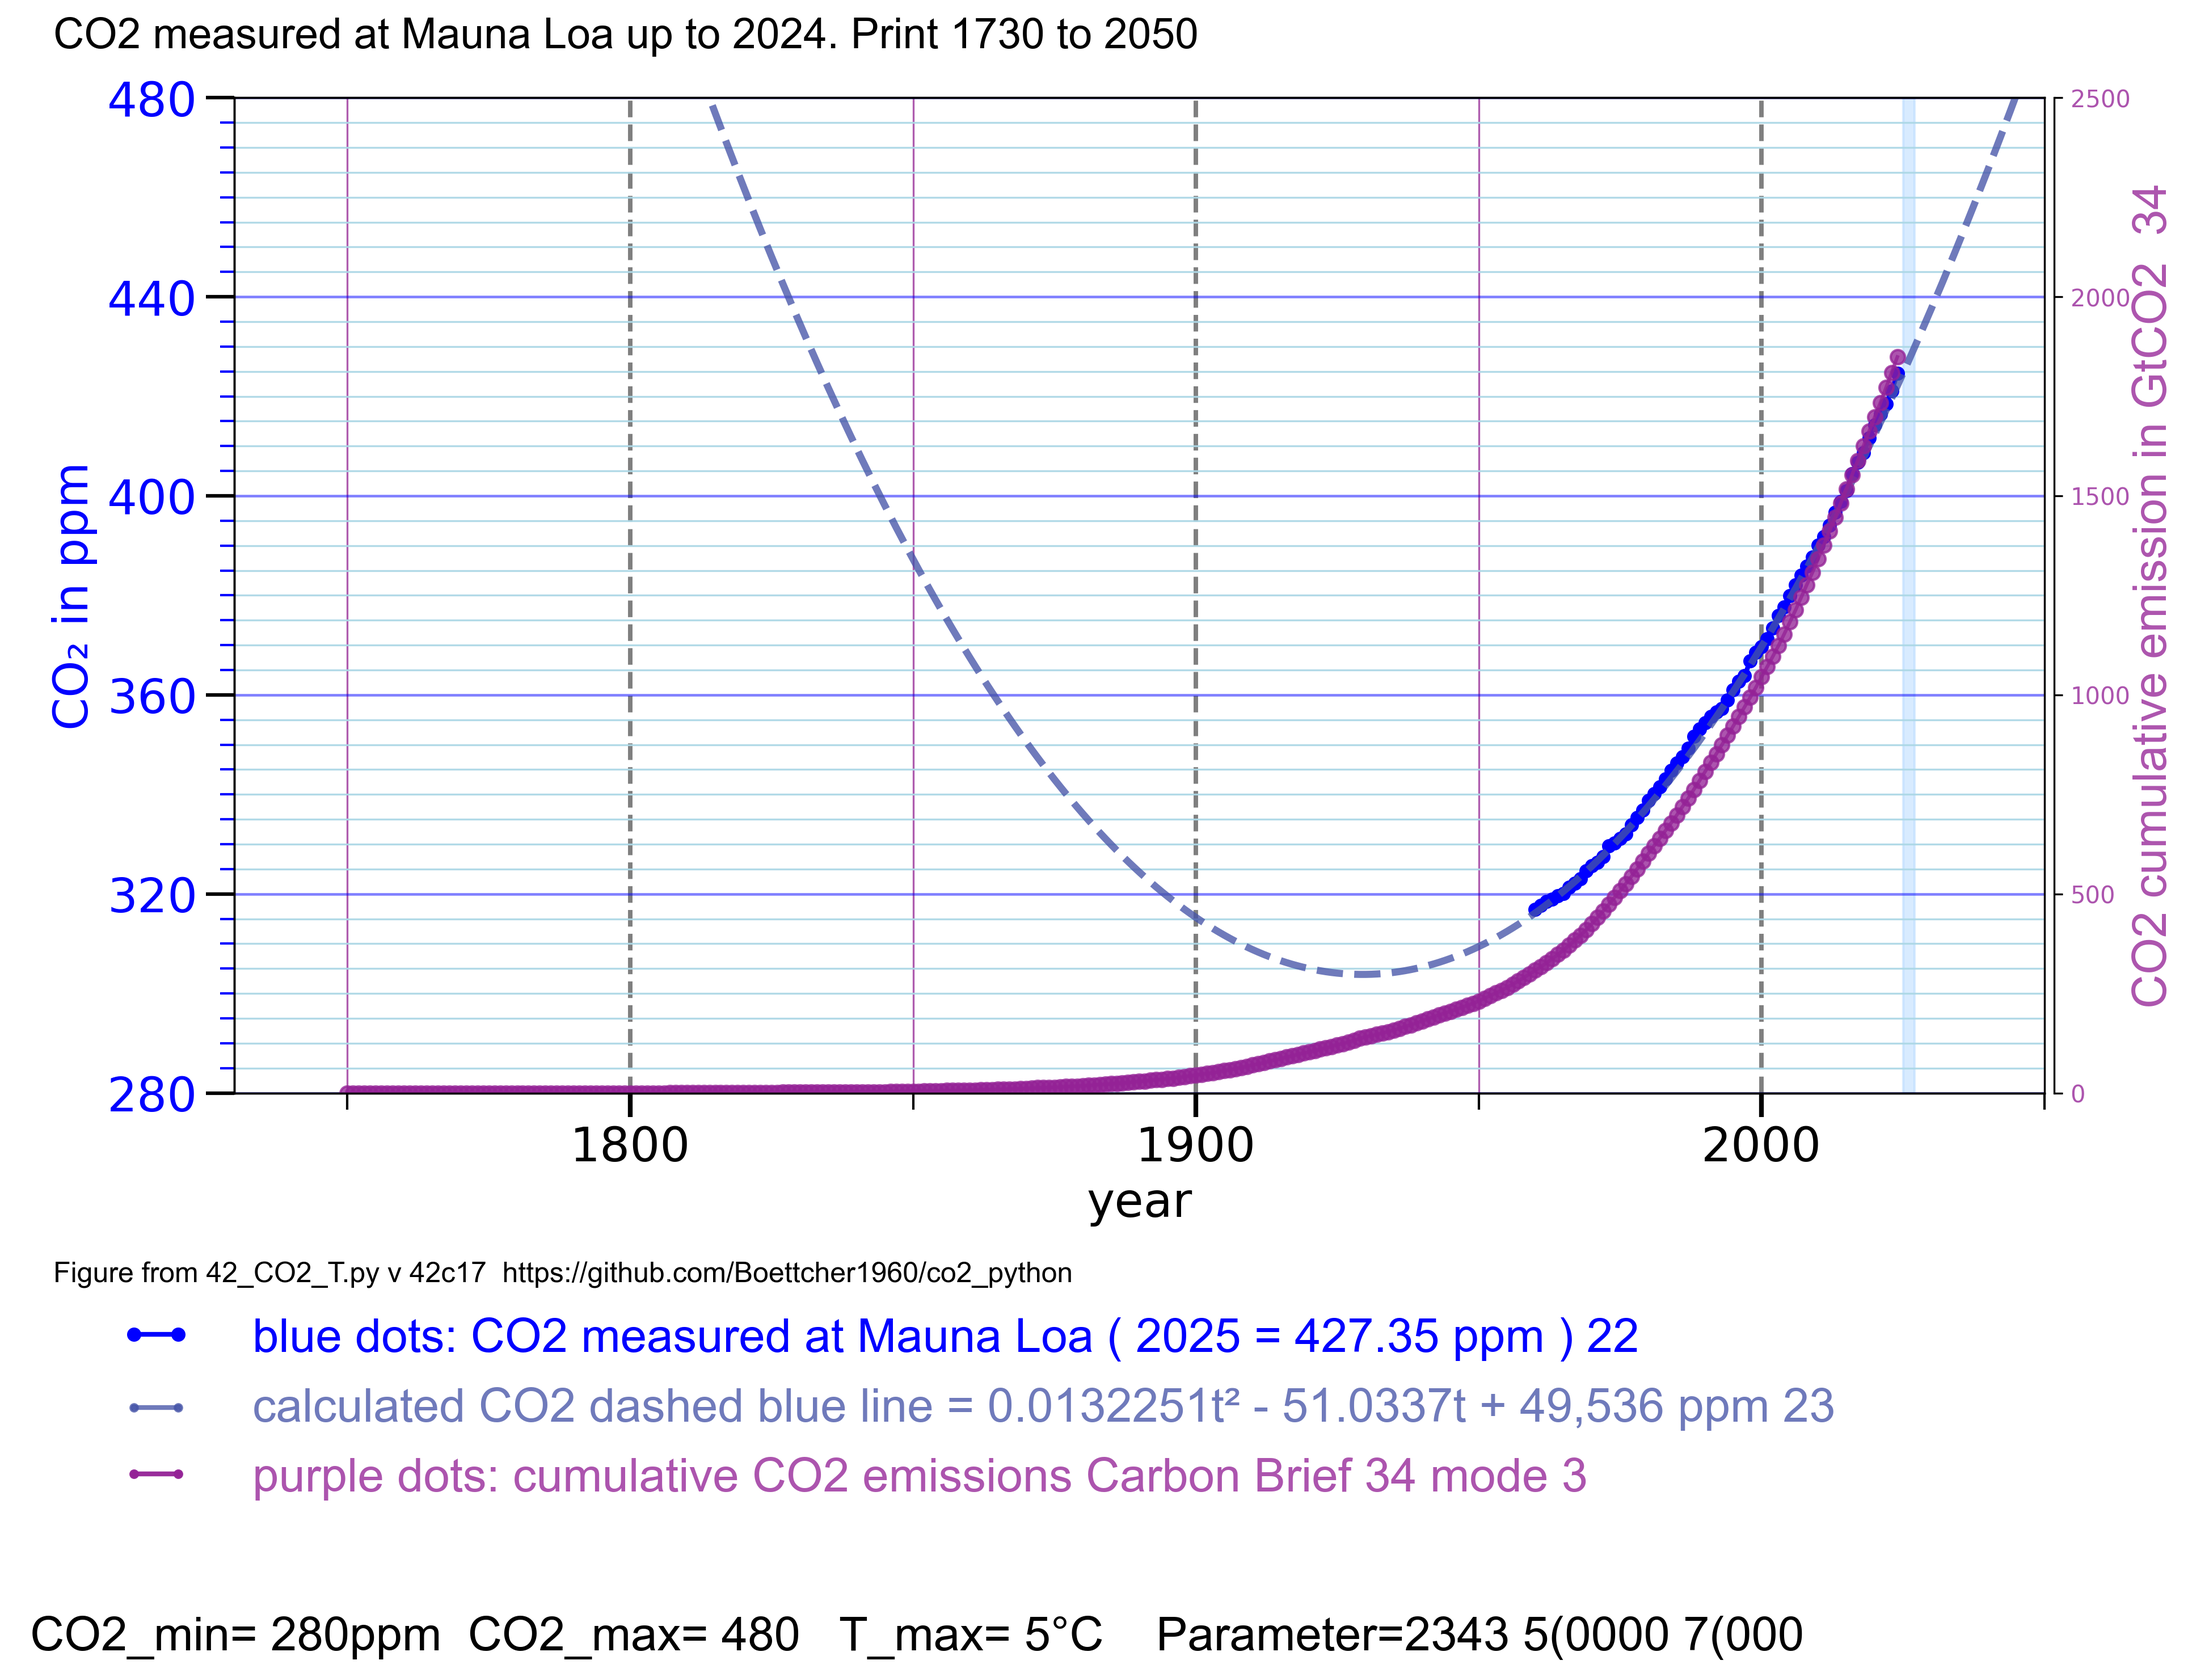
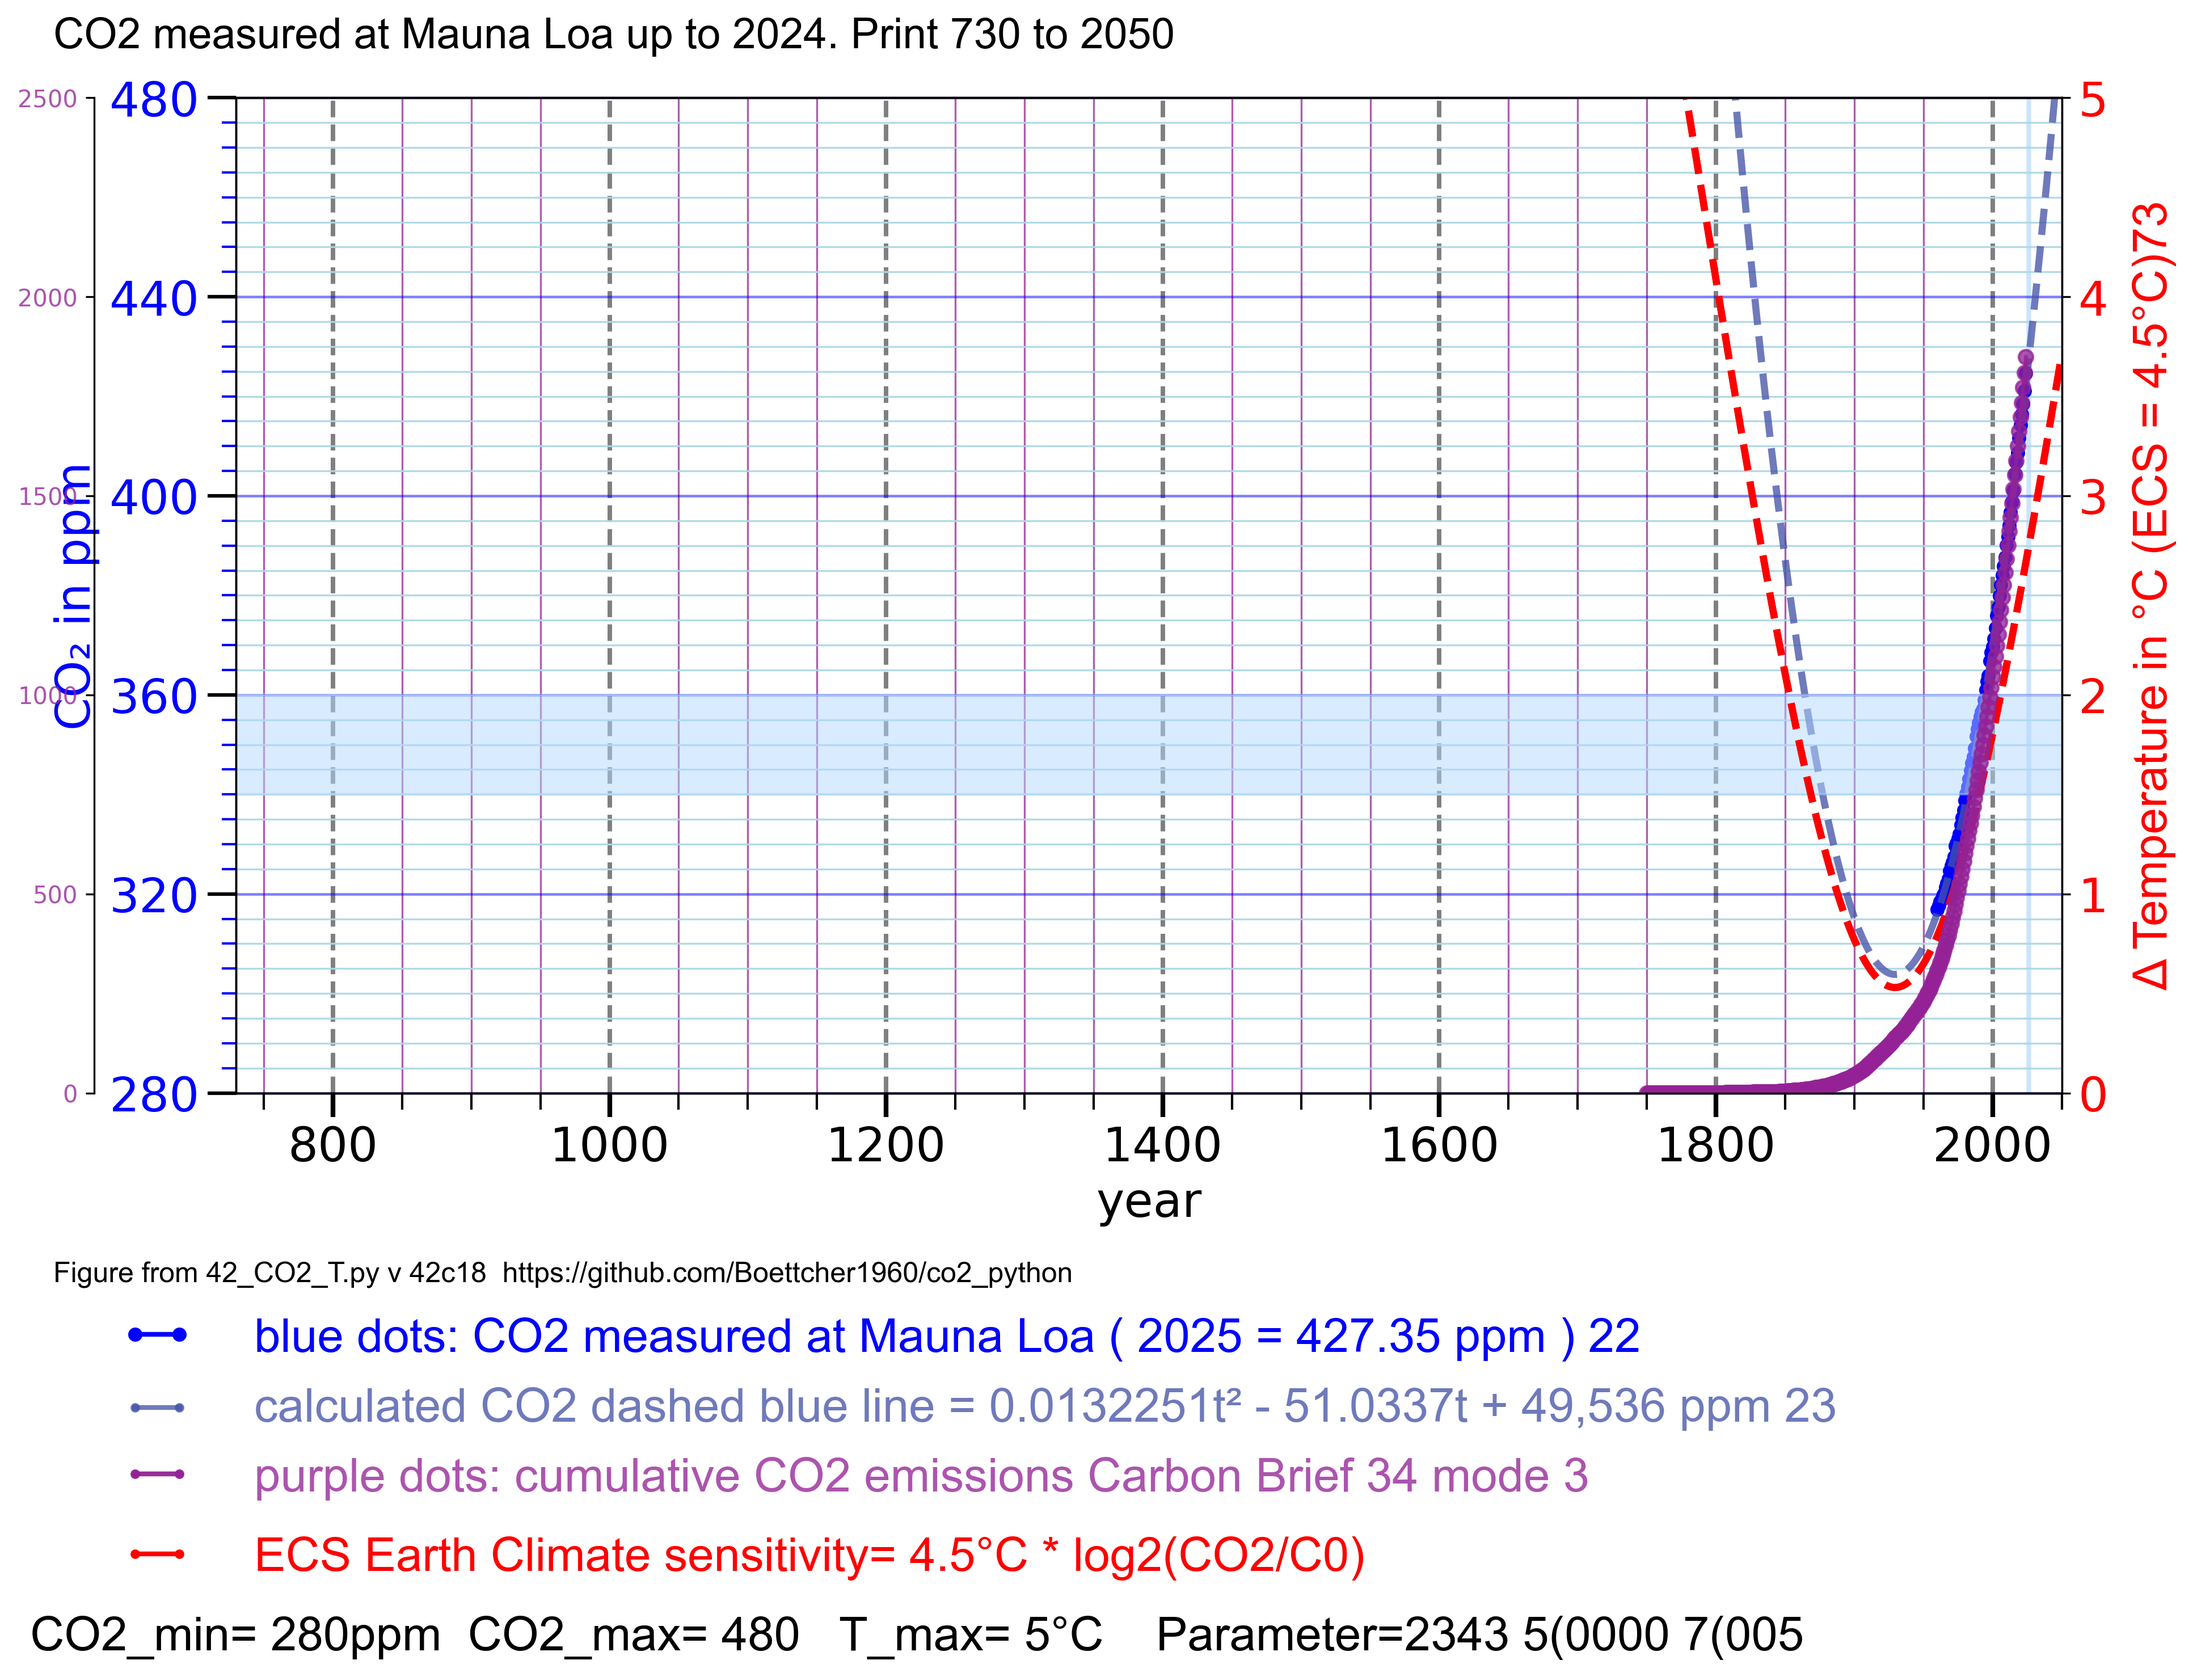
v = "42c18" # 720 to 2050

diff --git a/42_CO2_T.py b/42_CO2_T.py
@@ -1,5 +1,5 @@
 # 42_CO2_T.py 
-v = "42c17" # 1720 to 2050 
+v = "42c18" # 720 to 2050 
 # Thomas Boettcher
 # part 1 configure 
 # part 2.2 plot CO2 Mauna Loa
@@ -48,7 +48,7 @@ plot55_population_on = 0 # 4, 5 row 5 # 0=no print , 1 = population in green
 # no part 6
 plot71_temperature = 0 # 4,5, 0 quadratic T
 plot72_AESS_T= 0      # 4,5,0 apparent Earth system sensitivity (AESS=7.7°C)
-plot73_ECS_T= 0       # 6,5 #  Earth Climate sensitivity (ECS=4.5°C)
+plot73_ECS_T= 5       # 6,5 #  Earth Climate sensitivity (ECS=4.5°C)
 parameter84_save_png = 8 # save png
 
 c71 = "red" # plot71 color c71 = "green" 
@@ -70,7 +70,7 @@ y_max = 480 # 1300 # min value 440 70
 y_Tmin = 0 # min value °C
 y_Tmax = 5 # 4 # max value C
 
-x_anf = 1730 # 1960 2000 
+x_anf = 730 # 1960 2000 
 x_end = 2050 # 2200 2026 
 
 # 1.4.5 scale the text rows below the plot field
@@ -759,6 +759,9 @@ elif x_end - x_anf < 520:
 elif x_end - x_anf < 1020:
    x_mayor_ticks = 200
    x_minor_ticks = 20
+elif x_end - x_anf < 2020:
+   x_mayor_ticks = 200
+   x_minor_ticks = 50
 else:
    x_mayor_ticks = 50
    x_minor_ticks = 10
